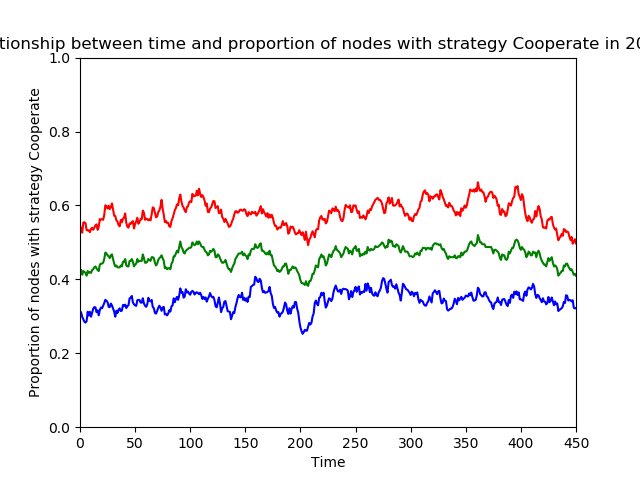
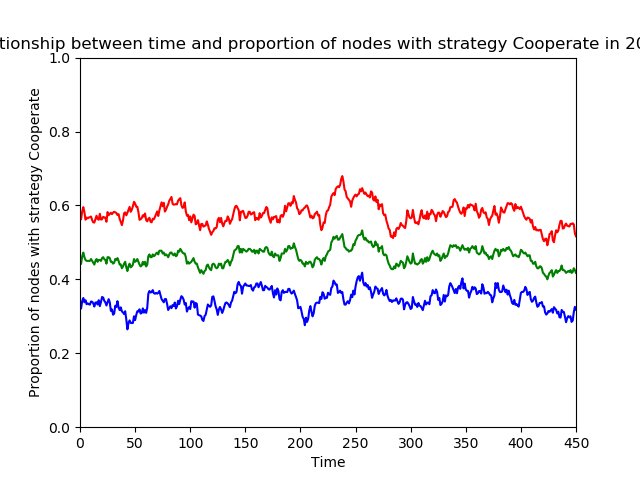
Fixed graph initialization error

Changed region(s): [[0.125, 0.375, 0.9062, 0.6875]]

diff --git a/test_files/timestep-control-1.py b/test_files/timestep-control-1.py
@@ -97,8 +97,9 @@ class game():
                 #print('\n')
 
                 if show_graph:
-                    # Creates picture of graph 
-                    rep.color_and_draw_graph(new_graph)
+                    if i%20 == 0:
+                        # Creates picture of graph 
+                        rep.color_and_draw_graph(new_graph)
 
 
                 if plotting:
@@ -181,8 +182,9 @@ class game():
                 #print('\n')
 
                 if show_graph:
-                    # Creates picture of graph 
-                    rep.color_and_draw_graph(new_graph)
+                    if i%20 ==0:
+                        # Creates picture of graph 
+                        rep.color_and_draw_graph(new_graph)
 
 
                 if plotting:
@@ -248,7 +250,7 @@ def plot_many_trials(G, n, d, data_iteration, u, t, number_trials, the_strat, gr
         #append record for this trial of the concentrations of the_strat
         result_matrix.append(trial_outcome[1][the_strat])
     #scatter plot
-    X=[tictoc+1 for tictoc in range(t)]
+    X=[tictoc for tictoc in range(t)]
     #three lines to plot: average, and pm stdev
     Yavg, Yplus, Yminus=[], [], []
     for tictoc in range(t):
@@ -266,7 +268,7 @@ def plot_many_trials(G, n, d, data_iteration, u, t, number_trials, the_strat, gr
     plt.plot(X, Yminus, color='blue', marker='', linestyle = '-')
     
     #change axes ranges
-    plt.xlim(0,t)
+    plt.xlim(0,t-1)
     plt.ylim(0,1)
     #add title
     plt.title('Relationship between time and proportion of nodes with strategy ' + the_strat + ' in '+str(number_trials)+ ' trials')
@@ -275,11 +277,11 @@ def plot_many_trials(G, n, d, data_iteration, u, t, number_trials, the_strat, gr
     plt.xlabel('Time')
 
     #show plot
-    #plt.show()   
+    plt.show()   
     #plt.close()     
 
     if saving:
-    #    print("Attempting to save plot ", data_iteration)
+    #    print("Attempting to save plot ", data_iteration)+1
         plt.savefig(graph_type + '_' + str(t) + '_' + update_name + '_n=' + str(n) + '_u=' + \
             str(u) + '_d=' + str(d) + '_' + 'trial' + str(data_iteration) + '.png')
     #plt.close()
@@ -294,7 +296,7 @@ def plot_proportion_data(time, strat_dict, saving, graph_type, t, update_name, n
             #scatter plot
             X = time
             Y = strat_dict[strat]
-            plt.plot(X, Y, color='blue', marker='^', linestyle = '-')
+            plt.plot(X, Y, color='blue', marker='', linestyle = '-')
 
             #change axes ranges
             plt.xlim(0,max(time))
@@ -374,19 +376,19 @@ b = 2
 c = 20
 delta = 10
 
-n=20
-m = 4
-d=3
-graph_type = 'watts_strogatz'
+n=10
+m = 10
+d=10
+graph_type = 'grid'
 update_name = 'BD'
 
-time_length = 450
-number_trials=20
+time_length = 250
+number_trials=1
 
 n_lattice = 50
 m_lattice = 50
 
-start_prop_cooperators = .6
+start_prop_cooperators = .4
 
 
 
@@ -398,13 +400,13 @@ TYPES OF GRAPHS
 #G=init.generate_lattice(n_lattice, m_lattice)
 
 #Complete graph
-G = init.generate_graph(n, graph_type, d, m)
+#G = init.generate_graph(n, graph_type, d, m)
 
 #Complete/Dumbbell graph
 #G = init.generate_graph(n, graph_type)
 
 #Multiple dumbell
-#G=init.generate_dumbell_multiple_cliques(10,5,1)
+G=init.generate_dumbell_multiple_cliques(10,5,1)
 
 #Random regular graph
 #G = init.generate_graph(n, type = 'random', d)
@@ -421,22 +423,28 @@ LABELS
 #init.label_birth_death(G, strat_list, start_prop_cooperators)
 #init.label_BD_according_to_one_dim(G, strat_list, d)
 
-init.label_birth_death(G, strat_list, start_prop_cooperators)
+#init.label_birth_death(G, strat_list, start_prop_cooperators)
 #init.label_BD_according_to_one_dim(G, strat_list, n_lattice)
 
-rep.color_and_draw_graph(G)
+#rep.color_and_draw_graph(G)
 
 '''-------------
 TIMESTEP
 --------------'''
-'''
-for data_iteration in range(1):
+
+for data_iteration in range(5):
+    #init.label_birth_death(G, strat_list, start_prop_cooperators)
+    G=init.generate_dumbell_multiple_cliques(10,5,1)
+    init.label_birth_death(G, strat_list, start_prop_cooperators)
+
+    #rep.color_and_draw_graph(G)
+
     game.trial_with_plot(G, n, d, data_iteration, u, time_length, graph_type, \
-        update_name= 'BD', plotting = True, show_graph = True, saving = False)
-'''
+        update_name= 'BD', plotting = True, show_graph = False, saving = False)
+
 
 data_iteration=[]
-plot_many_trials(G, n, d, data_iteration, u, time_length, number_trials, 'Cooperate', graph_type, 'BD', plotting=True, show_graph=False, saving=True)
+#plot_many_trials(G, n, d, data_iteration, u, time_length, number_trials, 'Cooperate', graph_type, 'BD', plotting=True, show_graph=False, saving=False)
 
 
 

diff --git a/test_files/graph_initialization.py b/test_files/graph_initialization.py
@@ -36,7 +36,7 @@ def generate_lattice(n, m, type = 'triangular', dim = 2, periodic = False, with_
 
 
 
-def generate_graph(n, type = 'random', d=0, m=0, k=2, p=.5, periodic=False, with_positions=True, create_using=None):
+def generate_graph(n, type = 'random', d=0, m=0, k=5, p=.5, periodic=False, with_positions=True, create_using=None):
   '''
     INPUTS: 
     n               Number of nodes 
